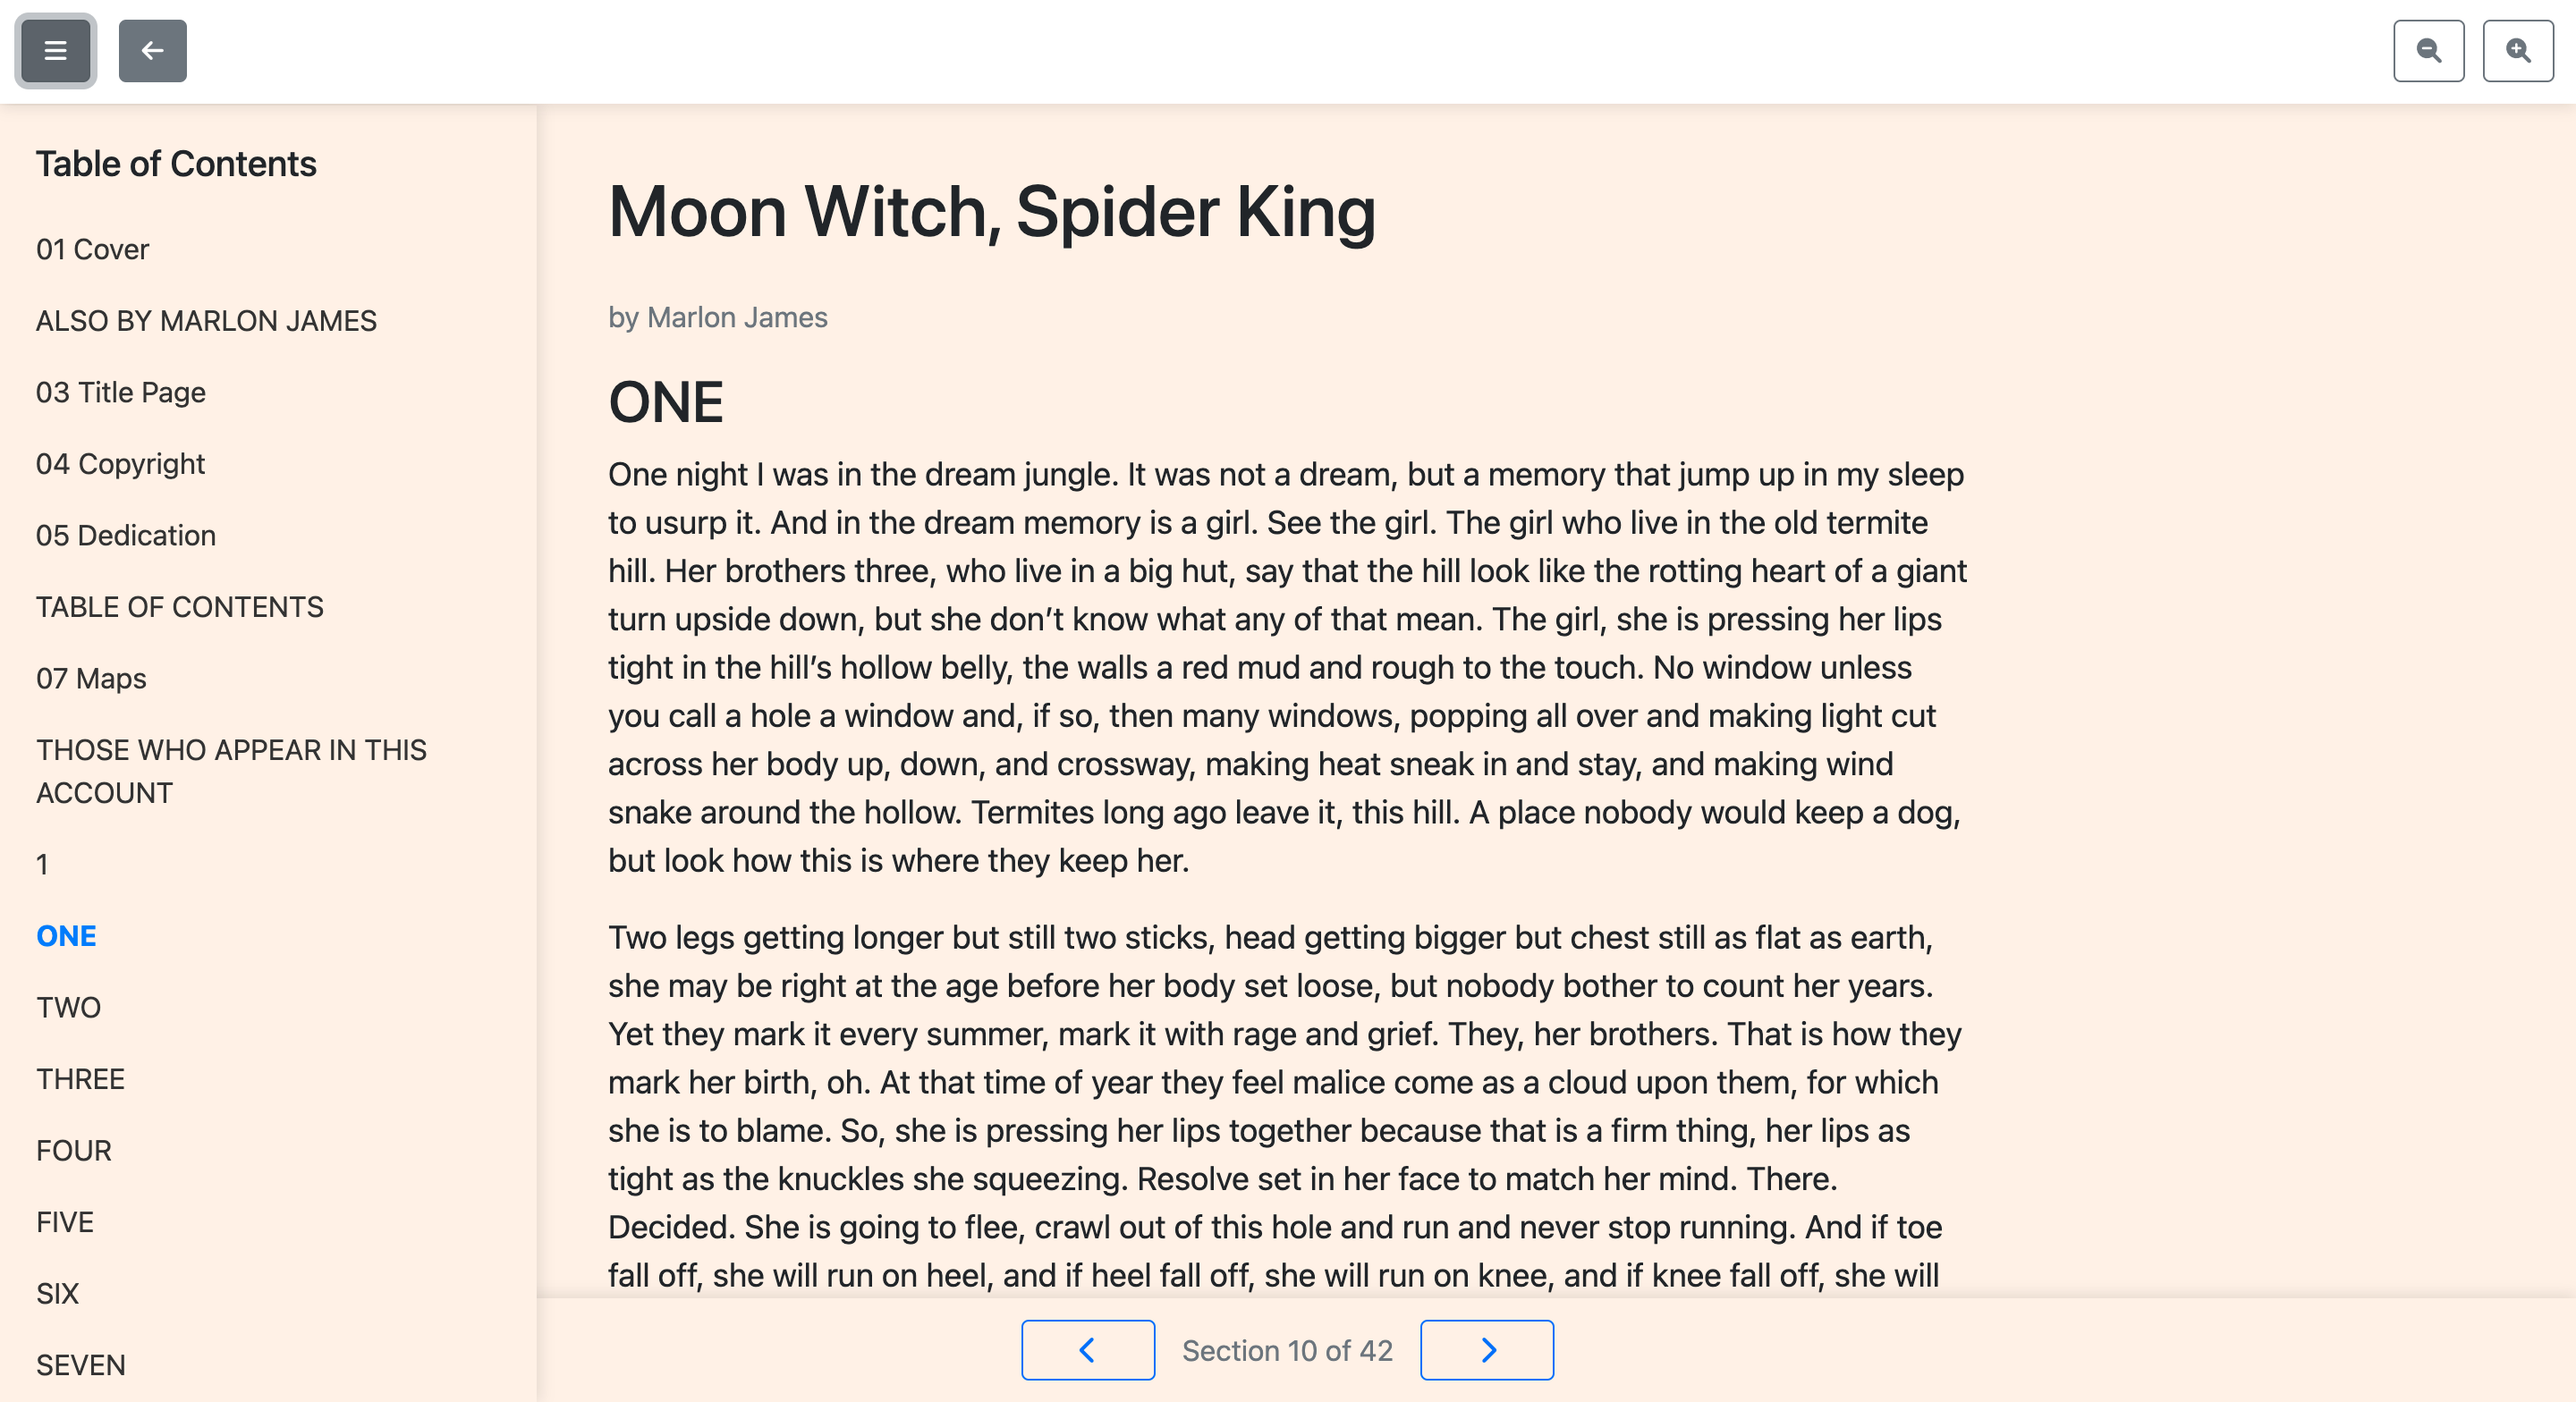
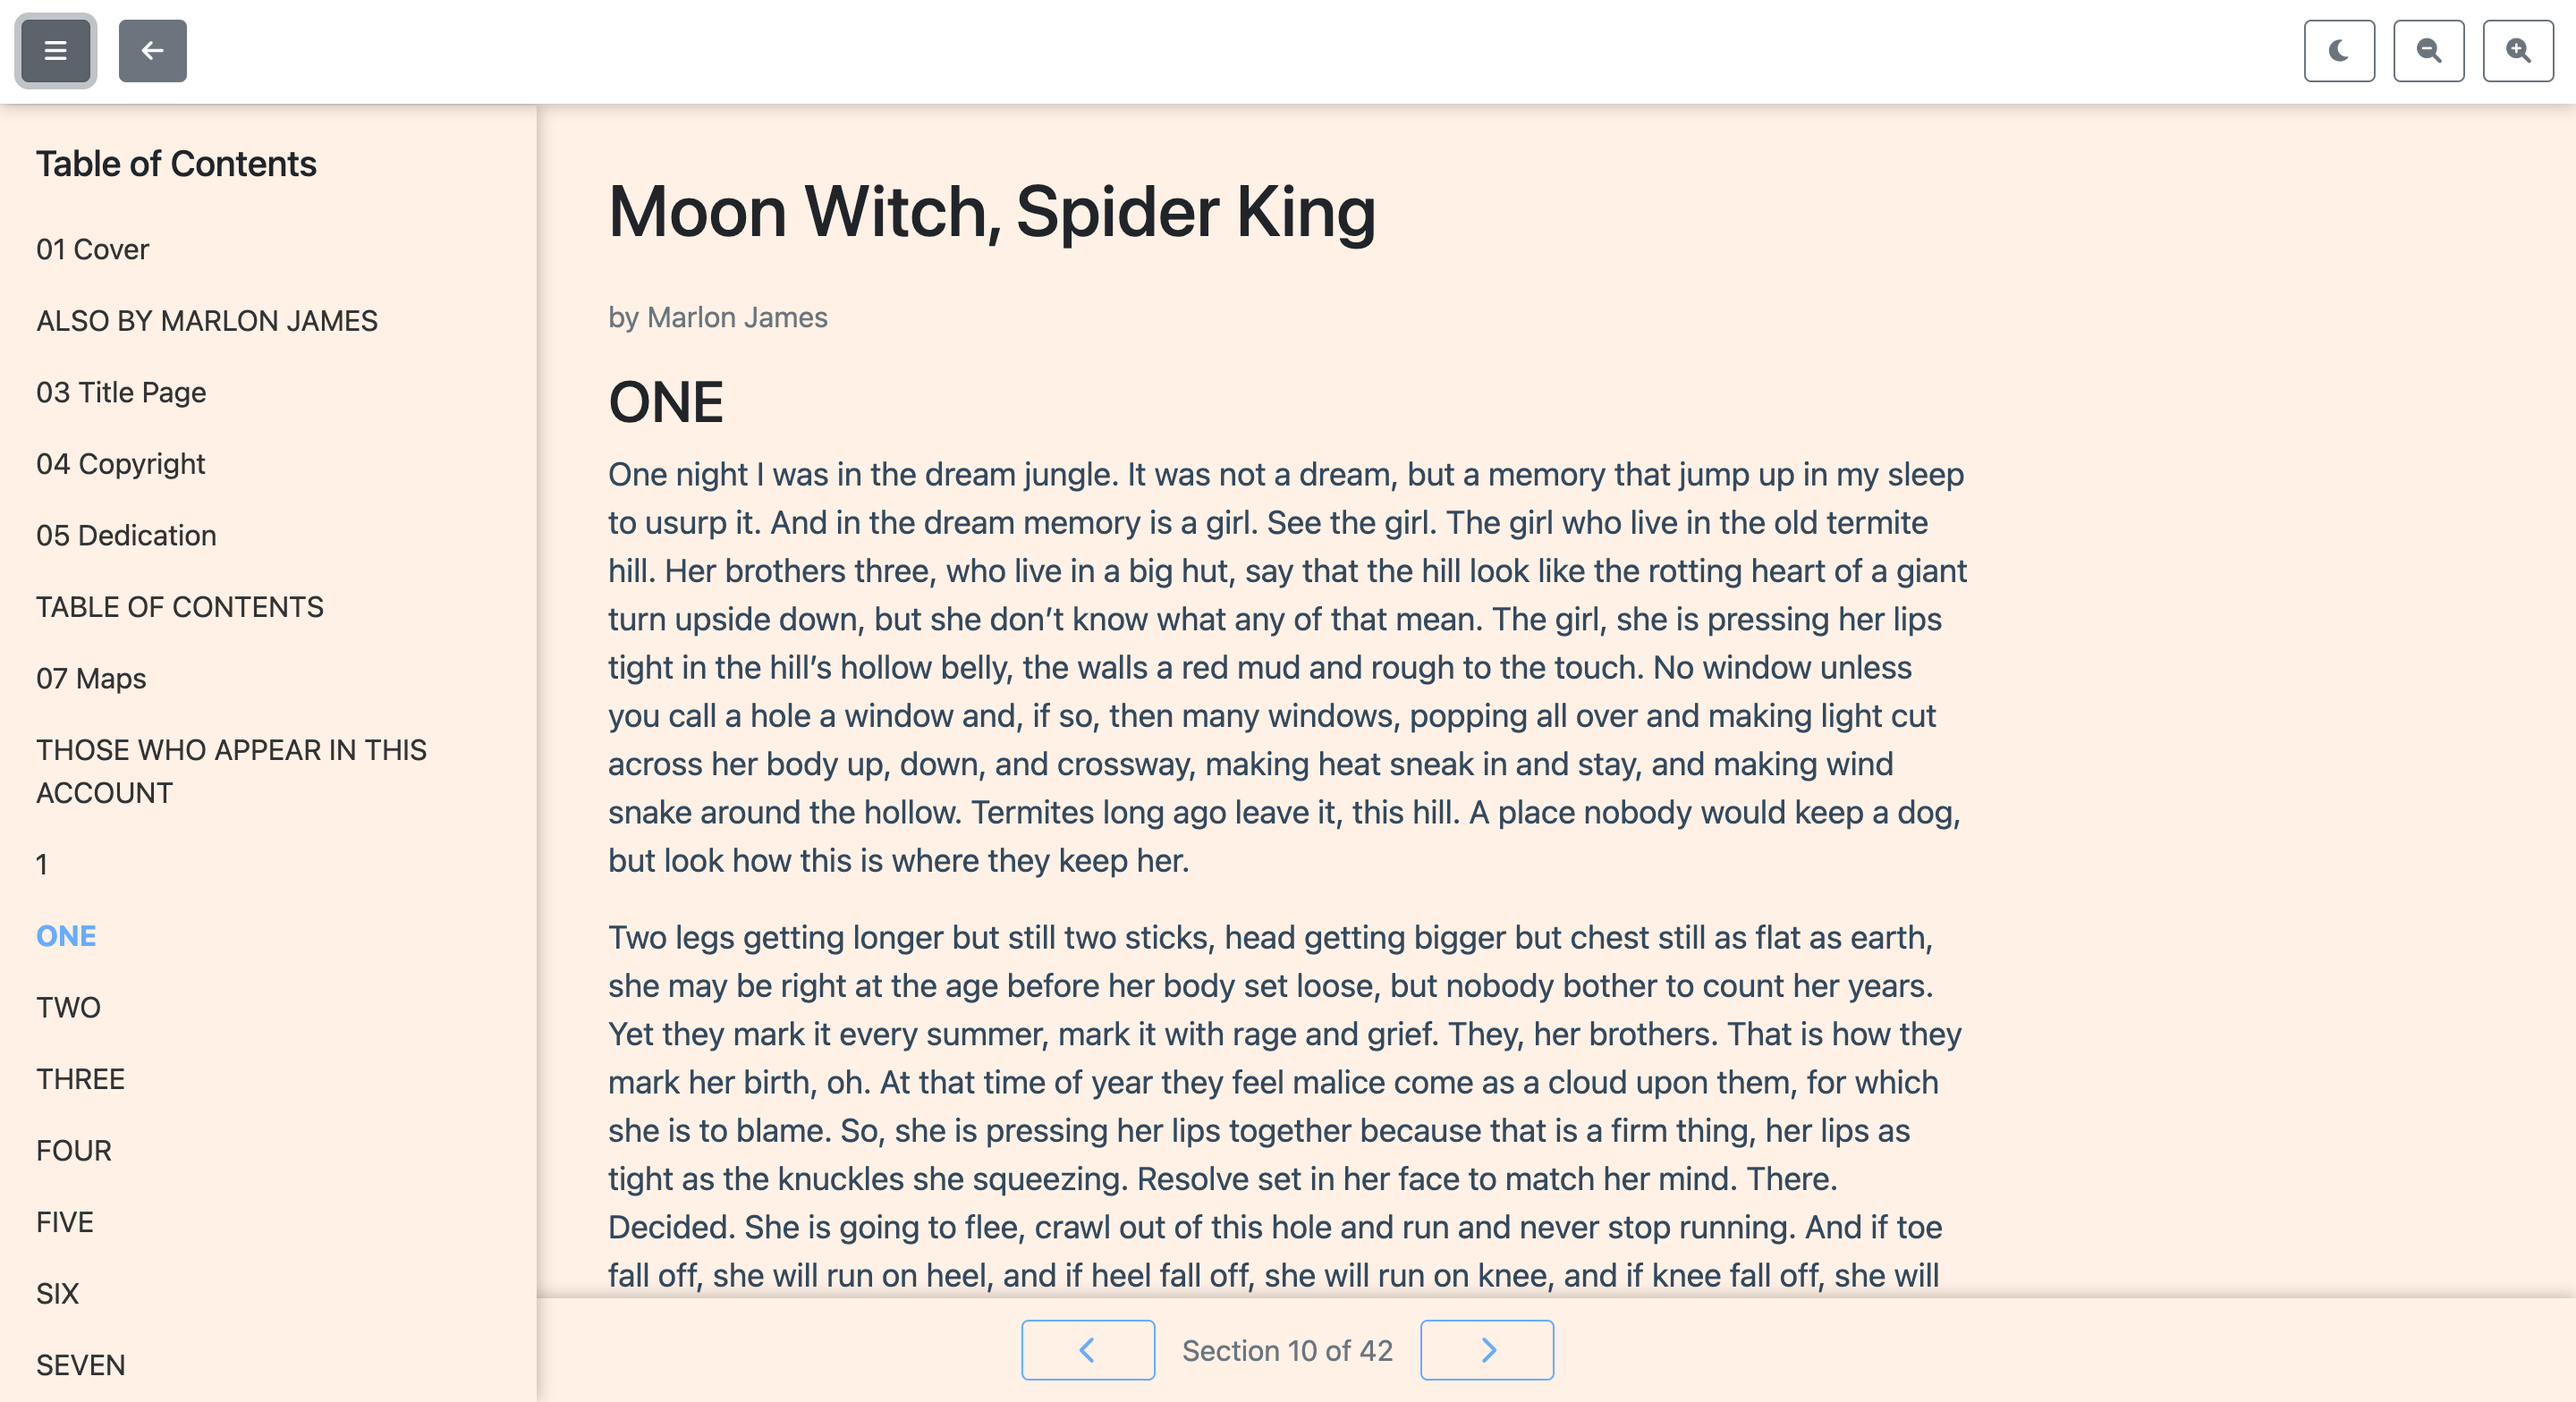
Update README and docker mounting

diff --git a/config.py b/config.py
@@ -1,10 +1,13 @@
 import os
 
+BASE_DIR = os.path.abspath(os.path.dirname(__file__))
+DATA_DIR = os.path.join(BASE_DIR, 'instance')
+
 class Config:
     SECRET_KEY = 'your-secret-key-here'
 
     # Database configuration
-    SQLALCHEMY_DATABASE_URI = 'sqlite:///library.db'
+    SQLALCHEMY_DATABASE_URI = 'sqlite:///' + os.path.join(DATA_DIR, 'library.db')
     SQLALCHEMY_TRACK_MODIFICATIONS = False
 
     # Compression configuration
@@ -19,4 +22,3 @@ class Config:
 
     # Book directory
     BOOK_DIR = os.getenv('BOOK_DIR', '/mnt/backup/books/')
-    # TODO: change to BOOK_DIR = "static/epubs/"

diff --git a/README.md b/README.md
@@ -14,10 +14,19 @@ This project is an EPUB Library Management System built using Flask, SQLAlchemy,
 
 ## Features
 
-- **Book Management**: Users can upload EPUB files, which are processed to extract metadata and cover images.
-- **Bookmarking**: The application automatically saves the reading position in each book for user convenience.
-- **Search and Filter**: Users can search for books by title, author, genre, and tags.
-- **Responsive Design**: The web interface is designed to be user-friendly and responsive.
+- **Book Management**
+  - Upload and process EPUBs, with automatic parsing of metadata.
+  - Customize book covers by uploading a new jpg or png.
+  - Download books directly from the library.
+- **EPUB Reader**
+  - Built-in reader with chapter-based navigation.
+  - Toggle dark mode, adjust font size, and leverage a dynamic table of contents.
+  - Mobile-friendly layout with intuitive controls.
+- **Filtering & Search**
+  - Filter books by title, author, genre, or tags.
+  - Track reading progress with automatic tags for Unread, In Progress, and Finished books.
+- **Dark Mode**
+  - Toggle between light and dark themes effortlessly.
 
 ## Installation
 
@@ -34,14 +43,28 @@ This project is an EPUB Library Management System built using Flask, SQLAlchemy,
 
 3. **Run the Docker container**:
    ```bash
-   docker run -d -p 8002:8002 -v <local_path_to_books>:/mnt/backup/books epub-library
+   docker run -d -p 8002:8002 \
+       -v <local_path_to_books>:/mnt/backup/books \
+       -v <local_path_to_instance>:/app/instance \
+       epub-library
+   ```
+
+4. **Alternative (local) setup**
+
+   Ensure you have Python (3.6+) installed and set up a virtual environment:
+   ```bash
+   python -m venv venv
+   source venv/bin/activate   # On Windows use `venv\Scripts\activate`
+   pip install -r requirements.txt
+   flask run --port=8002
    ```
 
 ## Usage
 
 - **Access the application**: Open your web browser and go to `http://127.0.0.1:8002`.
 - **User Registration**: Create a new user account to start managing your books.
-- **Upload Books**: Use the provided interface to upload EPUB files.
+- **Upload Books**: Click the upload icon to add an EPUB file to the library.
+- **Filtering**: Use the sidebar filters to narrow down your book collection by title, author, genre, or tags.
 - **Read Books**: Click on a book to read it in the built-in reader.
 - **Bookmarking**: Save your reading position for easy access later.
 
